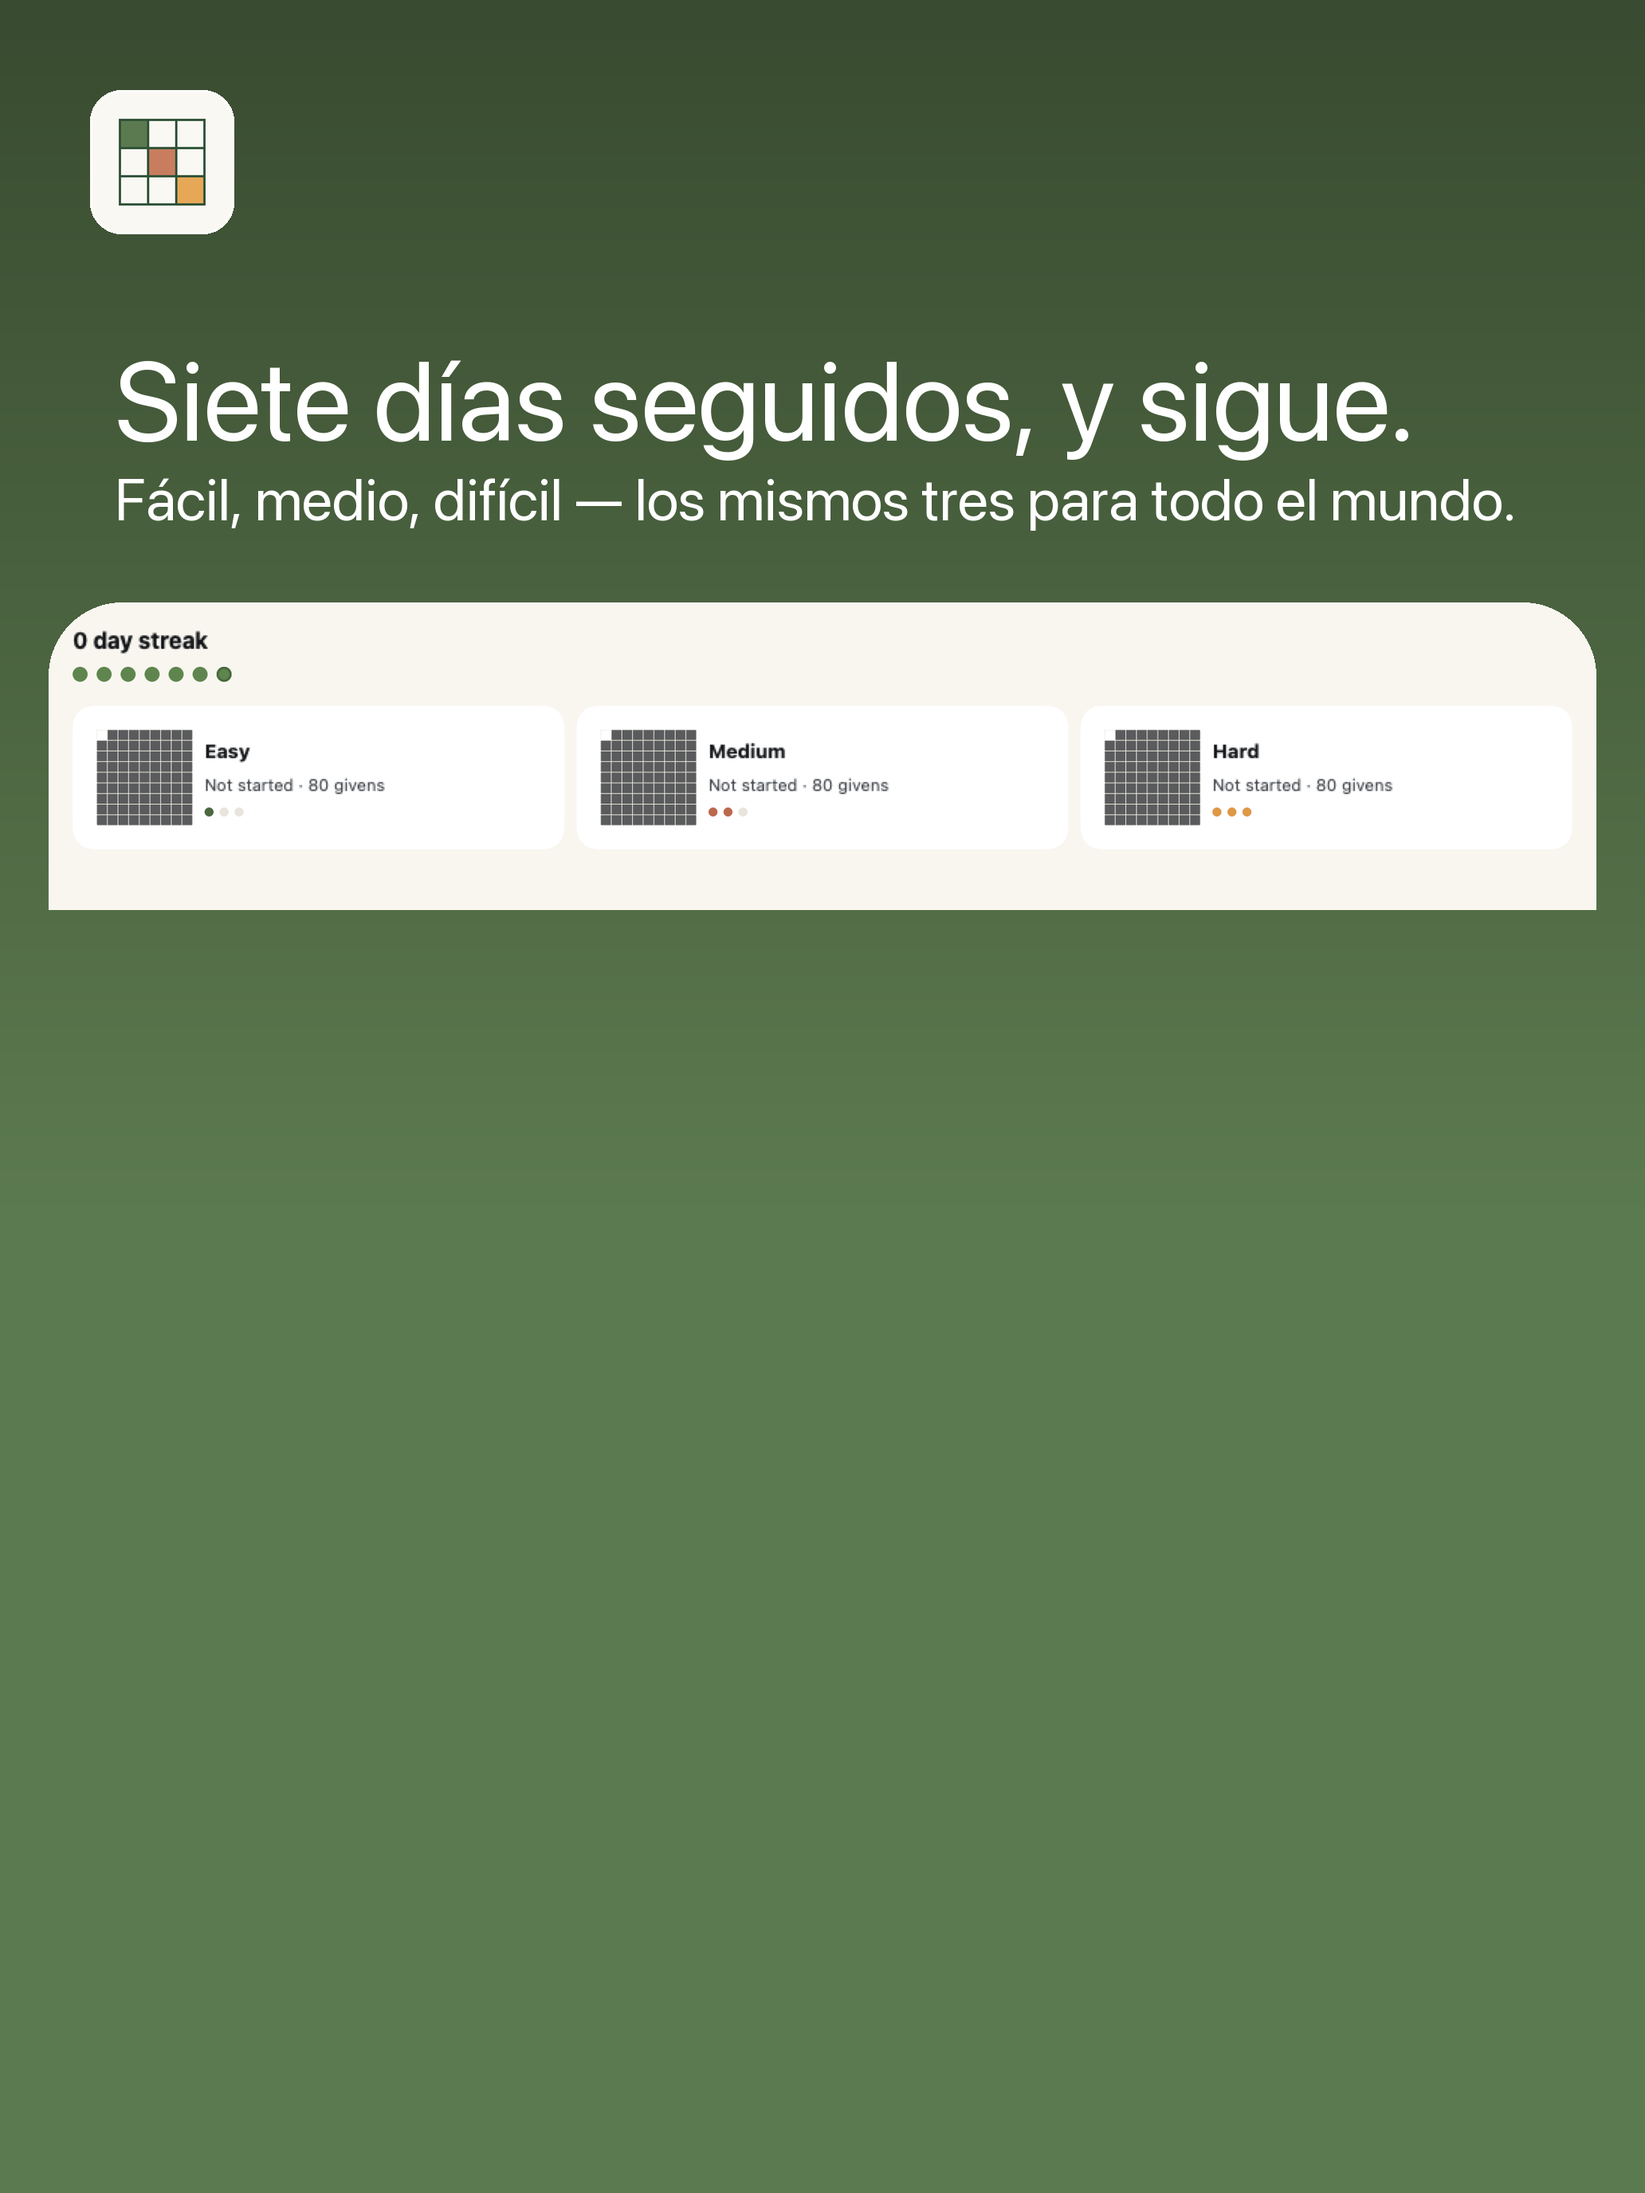
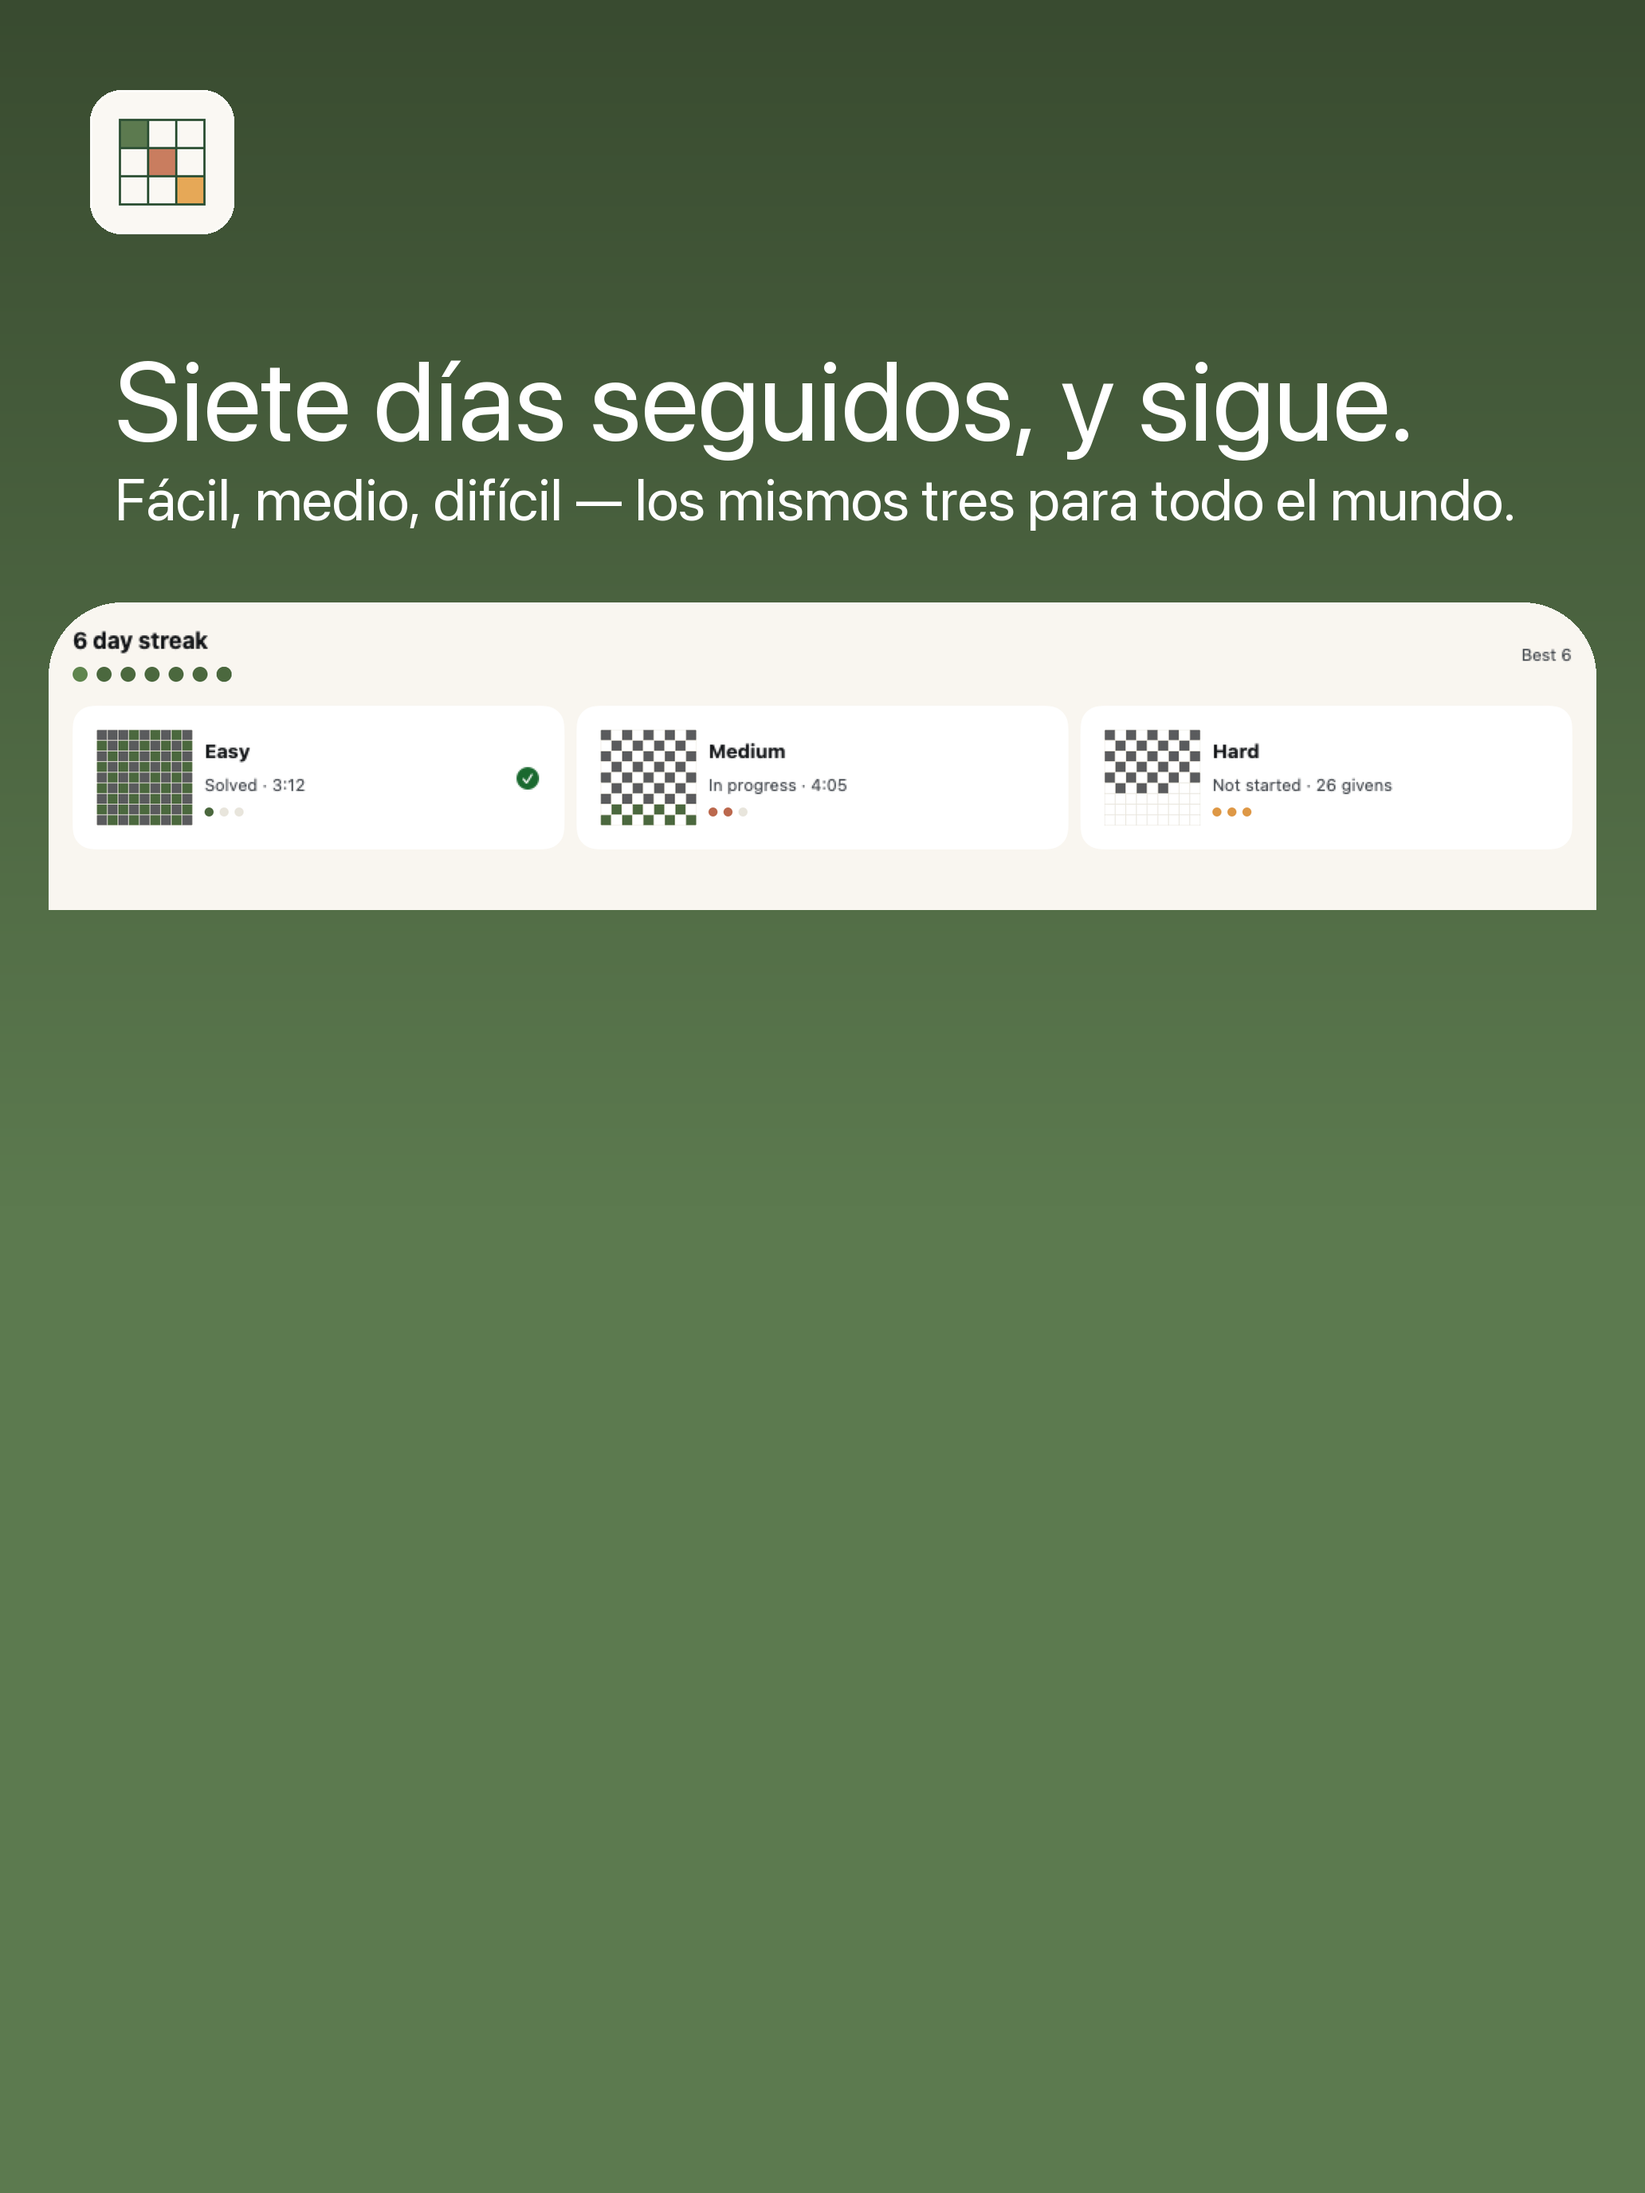
test(store): restore the two orphaned store-fed Sudoku Today baselines with realistic fixtures + regenerate 02-daily frames (#1021 phase H)
DailyHubViewTests.snapshotAllCompletedIPhoneLight and
snapshotUnfinishedIPadLight — the baselines that feed the ASC 02-daily
marketing frames — had lost their @Test functions in the phase B rewrite,
so the pipeline kept rendering stale pre-rewrite pixels ("0 day streak",
"Not started · 80 givens"). Both tests are back (fixture helpers in
DailyHubStoreFrameSnapshotTests.swift to respect file_length), fed by a
valid masked solved-grid puzzle at ~42/32/26 givens, a 6-day streak
(Best 6), realistic best times and one in-progress Medium card; only these
two baselines re-recorded; 14 Sudoku 02-daily frames regenerated
(build-ascspec 168/168, spec-verified, zh-Hant eyeballed — no tofu).
Every store-fed baseline now has a live test function.

part of #1021

diff --git a/Packages/SudokuKit/Tests/SudokuUITests/DailyHubStoreFrameSnapshotTests.swift b/Packages/SudokuKit/Tests/SudokuUITests/DailyHubStoreFrameSnapshotTests.swift
@@ -1,0 +1,107 @@
+// DailyHubStoreFrameSnapshotTests — #1021 Phase H: STORE-ONLY marketing-frame
+// fixture helpers for `DailyHubViewTests`'s `snapshotAllCompletedIPhoneLight`
+// / `snapshotUnfinishedIPadLight` (`scripts/build-ascspec-screenshots.py`'s
+// `02-daily` `Slot(...)` entries name those two `@Test` functions directly —
+// they feed the App-Store `docs/app-store/screenshots-ascspec/sudoku/.../
+// 02-daily.png` frames). Pure `extension DailyHubViewTests` holding fixture
+// builders only (no `@Test`s) — split out purely to keep `DailyHubViewTests.
+// swift` under the 400-line `file_length` lint ceiling (same rationale as
+// `DailyHubViewModel+BestTime.swift` on the production side). The `@Test`s
+// themselves stay in `DailyHubViewTests.swift` so swift-snapshot-testing's
+// `#filePath`-derived baseline lookup keeps resolving to THAT file's
+// `__Snapshots__/DailyHubViewTests/` directory — the marketing script's
+// literal path — rather than a directory named after this file.
+//
+// Their baseline PNGs already existed on disk (orphaned since the Phase B
+// `DailyCardContent` rewrite deleted the test functions that used to produce
+// them but not the files themselves), frozen on the OLD `PuzzleFixtures.
+// latinSquarePuzzle()` fixture: an 80-given near-full grid with no
+// completions scripted at all, rendering "0 day streak" and "Not started ·
+// 80 givens" under marketing copy that promises a streak (the repo's known
+// "marketing assets inherit empty-state fixtures" trap). These fixtures
+// replace that stale content with a populated, realistic Today.
+//
+// Distinct from `snapshotAllDoneIPhoneLight`/`snapshotLoadedAX3IPadLight` in
+// `DailyHubViewTests.swift` (the ordinary Phase B state-coverage suite,
+// driven by the shared 80-given `makeViewModel` fixture) — those stay
+// untouched; only the two store-fed baselines get the richer fixture below.
+
+import Foundation
+import SudokuEngine
+import SudokuPersistence
+import SudokuKitTesting
+
+extension DailyHubViewTests {
+
+    /// A real subset of a known-valid, fully-solved Sudoku grid (Wikipedia's
+    /// canonical 9×9 example) kept as clues — unlike `PuzzleFixtures.
+    /// latinSquarePuzzle()` (a row-shifted grid satisfying no Sudoku
+    /// constraint), every clue here is consistent with actual row/column/box
+    /// rules. `(index * 41) % 81` is a fixed bijection over the 81 cells (41
+    /// is coprime with 81 = 3^4), so the kept clues spread evenly across the
+    /// grid instead of clustering in the first rows — a marketing-frame
+    /// thumbnail needs its "solved" vs. "not started" density to look
+    /// plausible at a glance, not just be technically well-formed.
+    static let storeSolvedGridString =
+        "534678912672195348198342567859761423426853791713924856961537284287419635345286179"
+
+    static func storePuzzle(difficulty: Difficulty, givenCount: Int) -> Puzzle {
+        let solutionChars = Array(storeSolvedGridString)
+        // swiftlint:disable:next force_try
+        let solution = try! Board(clues: storeSolvedGridString)
+        var cluesChars = Array(repeating: Character("."), count: solutionChars.count)
+        for index in solutionChars.indices where (index * 41) % 81 < givenCount {
+            cluesChars[index] = solutionChars[index]
+        }
+        // swiftlint:disable:next force_try
+        let clues = try! Board(clues: String(cluesChars))
+        return Puzzle(clues: clues, solution: solution, difficulty: difficulty, generatorVersion: .v1, seed: 0)
+    }
+
+    /// ~42/32/26 givens (easy/medium/hard) — realistic clue density, not the
+    /// 80-given near-full grid the orphaned baselines inherited.
+    static func storeDailyTrio(date: Date) -> [PuzzleEnvelope] {
+        let givenCounts: [Difficulty: Int] = [.easy: 42, .medium: 32, .hard: 26]
+        return Difficulty.allCases.map { difficulty in
+            PuzzleEnvelope(
+                puzzle: storePuzzle(difficulty: difficulty, givenCount: givenCounts[difficulty] ?? 30),
+                identity: PuzzleIdentity.daily(date: date, difficulty: difficulty)
+            )
+        }
+    }
+
+    /// A believable 6-day streak ending today (`offset 0`) — `offset 6` is
+    /// left un-scripted so the chain actually breaks there (`current` reads
+    /// 6, not the window-capped "7+"), and since `allCompletedDays` only ever
+    /// sees these 6 days, `longest` also lands at 6 — non-nil, so the header's
+    /// "Best 6" caption renders (design.md §3.1/§4.2, `StreakHeaderView`).
+    /// `todayCompletedIds` scripts ONLY today (`offset 0`); the other 5 days
+    /// just need any non-empty set to read as completed for the pip/streak
+    /// math, so they use throwaway placeholder ids.
+    static func seedStoreStreak(persistence: FakePersistence, todayCompletedIds: Set<String>) async {
+        for offset in 0...5 {
+            let date = Self.fixedDate.addingTimeInterval(-Double(offset) * 86_400)
+            let ids = offset == 0 ? todayCompletedIds : ["store-streak-day-\(offset)"]
+            await persistence.setCompletedDailyIds(ids, for: date)
+        }
+    }
+
+    /// A partially-filled `boardState` for the "in progress" card thumbnail
+    /// — every OTHER non-given cell is filled with its correct solution
+    /// digit, the rest stay blank, so `TodayMapper.inProgressPreview` renders
+    /// a genuinely mixed given/filled/empty grid instead of an all-or-nothing
+    /// one.
+    static func storePartialBoardState(givenMask: [Bool]) -> String {
+        let solutionChars = Array(storeSolvedGridString)
+        var chars: [Character] = []
+        chars.reserveCapacity(solutionChars.count)
+        for index in solutionChars.indices {
+            if givenMask[index] || index.isMultiple(of: 2) {
+                chars.append(solutionChars[index])
+            } else {
+                chars.append(".")
+            }
+        }
+        return String(chars)
+    }
+}

diff --git a/Packages/SudokuKit/Tests/SudokuUITests/DailyHubViewTests.swift b/Packages/SudokuKit/Tests/SudokuUITests/DailyHubViewTests.swift
@@ -8,6 +8,7 @@ import Testing
 
 import GameShellUI
 import Persistence
+import SudokuEngine
 import SudokuPersistence
 import SudokuKitTesting
 
@@ -15,7 +16,8 @@ import SudokuKitTesting
 @Suite("DailyHubView — bootstrap + snapshots")
 struct DailyHubViewTests {
 
-    nonisolated(unsafe) private static let fixedDate = Date(timeIntervalSince1970: 1_715_000_000)
+    // internal (not `private`): `DailyHubStoreFrameSnapshotTests.swift` reads it too.
+    nonisolated(unsafe) static let fixedDate = Date(timeIntervalSince1970: 1_715_000_000)
 
     private func makeViewModel(
         completedDailyIds: Set<String> = [],
@@ -298,6 +300,100 @@ struct DailyHubViewTests {
             assertSnapshot(of: host, as: .image, named: "DailyHub-iPhone-light-exhausted")
         }
         assertViewStructure(of: host, named: "DailyHub-iPhone-light-exhausted", record: SnapshotMode.recordMode)
+    }
+
+    // MARK: - Store marketing-frame fixtures (#1021 Phase H)
+    // Fixture helpers live in `DailyHubStoreFrameSnapshotTests.swift` (split
+    // out for `file_length`; see its header); `@Test`s stay HERE so
+    // `#filePath`-derived baseline lookup matches `build-ascspec-screenshots.py`'s
+    // literal `Slot(...)` path (`__Snapshots__/DailyHubViewTests/`).
+
+    /// iPhone `02-daily` store frame: all 3 difficulties solved today.
+    @Test(.enabled(if: !SnapshotEnv.isXcodeCloud)) func snapshotAllCompletedIPhoneLight() async {
+        let trio = Self.storeDailyTrio(date: Self.fixedDate)
+        let allIds = Set(trio.map(\.identity.puzzleId))
+        let provider = FakePuzzleProvider()
+        await provider.setDailyTrioResult(.success(trio))
+        let persistence = FakePersistence()
+        await Self.seedStoreStreak(persistence: persistence, todayCompletedIds: allIds)
+        let bestTimes: [Difficulty: Int] = [.easy: 192, .medium: 401, .hard: 860]  // 3:12 / 6:41 / 14:20
+        for (difficulty, seconds) in bestTimes {
+            await persistence.setPersonalRecordResult(
+                .success(PersonalRecord(
+                    recordName: "daily-\(difficulty.rawValue)-store",
+                    mode: .daily,
+                    difficulty: difficulty,
+                    bestTimeSeconds: seconds,
+                    totalTimeSeconds: seconds * 5,
+                    completedCount: 5,
+                    lastUpdatedAt: Self.fixedDate,
+                    completedPuzzleIds: [PuzzleIdentity.daily(date: Self.fixedDate, difficulty: difficulty).puzzleId]
+                )),
+                mode: .daily,
+                difficulty: difficulty
+            )
+        }
+        let viewModel = DailyHubViewModel(provider: provider, persistence: persistence, dateProvider: { Self.fixedDate })
+        await viewModel.bootstrap()
+        let host = hostingView(
+            DailyHubView(viewModel: viewModel),
+            size: SnapshotLayouts.iPhone,
+            colorScheme: .light,
+            sizeClass: .compact
+        )
+        withSnapshotTesting(record: SnapshotMode.recordMode) {
+            assertSnapshot(of: host, as: .image, named: "DailyHub-iPhone-light-allDone")
+        }
+        assertViewStructure(of: host, named: "DailyHub-iPhone-light-allDone", record: SnapshotMode.recordMode)
+    }
+
+    /// iPad `02-daily` store frame: Easy solved, Medium in progress, Hard not started.
+    @Test(.enabled(if: !SnapshotEnv.isXcodeCloud)) func snapshotUnfinishedIPadLight() async {
+        let trio = Self.storeDailyTrio(date: Self.fixedDate)
+        let easyId = trio[0].identity.puzzleId
+        let mediumId = trio[1].identity.puzzleId
+        let provider = FakePuzzleProvider()
+        await provider.setDailyTrioResult(.success(trio))
+        let persistence = FakePersistence()
+        await Self.seedStoreStreak(persistence: persistence, todayCompletedIds: [easyId])
+        await persistence.setPersonalRecordResult(
+            .success(PersonalRecord(
+                recordName: "daily-easy-store",
+                mode: .daily,
+                difficulty: .easy,
+                bestTimeSeconds: 192,  // 3:12
+                totalTimeSeconds: 192 * 5,
+                completedCount: 5,
+                lastUpdatedAt: Self.fixedDate,
+                completedPuzzleIds: [easyId]
+            )),
+            mode: .daily,
+            difficulty: .easy
+        )
+        let mediumBoardState = Self.storePartialBoardState(givenMask: trio[1].puzzle.clues.givenMask)
+        await persistence.setResumeCandidate(SavedGameSummary(
+            recordName: "in-progress-medium-store",
+            puzzleId: mediumId,
+            mode: .daily,
+            difficulty: .medium,
+            lastModifiedAt: Self.fixedDate,
+            elapsedSeconds: 245,  // 4:05
+            status: "inProgress",
+            generatorVersion: 1,
+            boardState: mediumBoardState
+        ))
+        let viewModel = DailyHubViewModel(provider: provider, persistence: persistence, dateProvider: { Self.fixedDate })
+        await viewModel.bootstrap()
+        let host = hostingView(
+            DailyHubView(viewModel: viewModel),
+            size: SnapshotLayouts.iPad,
+            colorScheme: .light,
+            sizeClass: .regular
+        )
+        withSnapshotTesting(record: SnapshotMode.recordMode) {
+            assertSnapshot(of: host, as: .image, named: "DailyHub-iPad-light-unfinished")
+        }
+        assertViewStructure(of: host, named: "DailyHub-iPad-light-unfinished", record: SnapshotMode.recordMode)
     }
     #endif
 }
